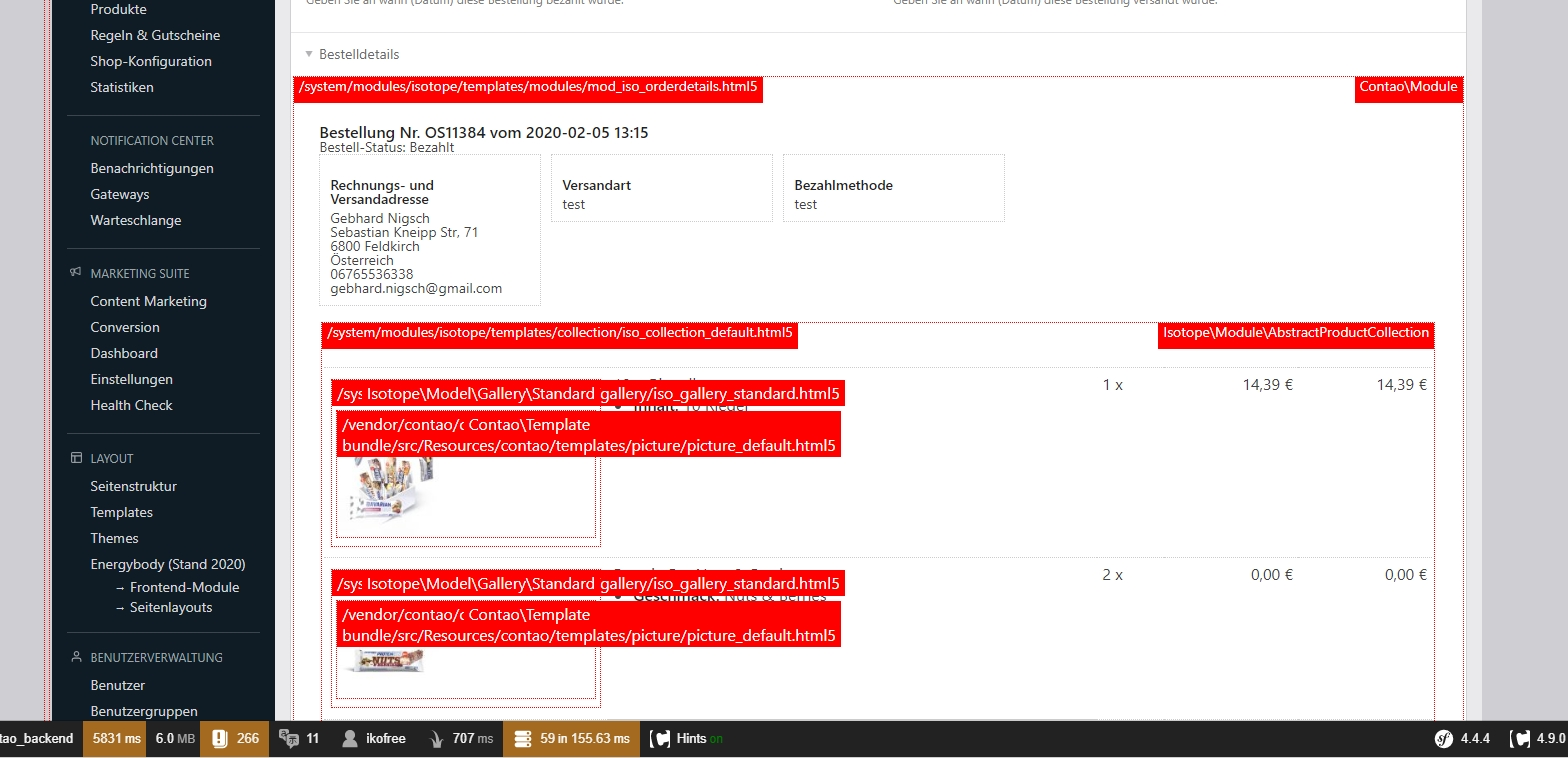
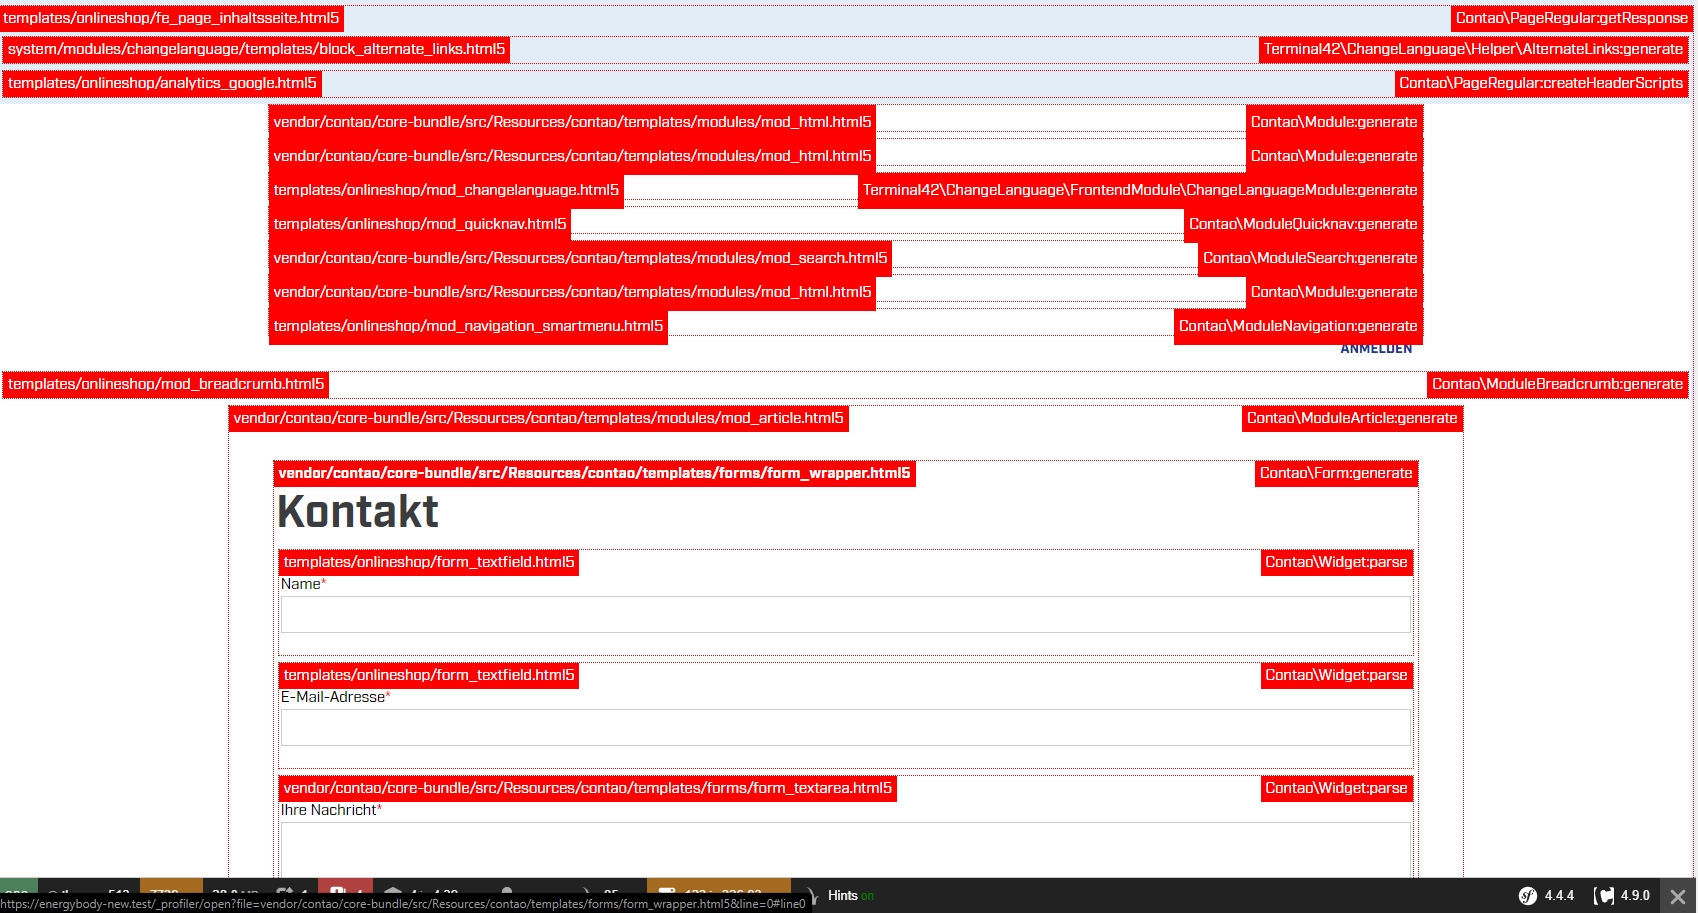
added link formatter

diff --git a/src/Resources/public/css/templatehint.css b/src/Resources/public/css/templatehint.css
@@ -17,6 +17,10 @@
     min-height: 22px;
 }
 
+a.templatehintlinks {
+    color: white;
+}
+
 .templatehint-template {
     left: 0px;
 }

diff --git a/src/EventListener/TemplatehintListener.php b/src/EventListener/TemplatehintListener.php
@@ -4,7 +4,9 @@ namespace Gebi84\TemplatehintBundle\EventListener;
 
 use Contao\Controller;
 use Contao\CoreBundle\ServiceAnnotation\Hook;
+use Contao\Widget;
 use Gebi84\TemplatehintBundle\Helper\Templatehint;
+use Symfony\Component\HttpKernel\Debug\FileLinkFormatter;
 use Terminal42\ServiceAnnotationBundle\ServiceAnnotationInterface;
 
 class TemplatehintListener implements ServiceAnnotationInterface
@@ -14,9 +16,17 @@ class TemplatehintListener implements ServiceAnnotationInterface
      */
     private $templatehint;
 
-    public function __construct(Templatehint $templatehint)
-    {
+    /**
+     * @var FileLinkFormatter
+     */
+    private $fileLinkFormatter;
+
+    public function __construct(
+        Templatehint $templatehint,
+        FileLinkFormatter $fileLinkFormatter
+    ) {
         $this->templatehint = $templatehint;
+        $this->fileLinkFormatter = $fileLinkFormatter;
     }
 
     /**
@@ -41,16 +51,25 @@ class TemplatehintListener implements ServiceAnnotationInterface
      */
     public function parseFrontendTemplateHint(string $buffer, string $template): string
     {
-        return $this->parseTempateHint($buffer, $template);
+        return $this->parseTemplateHint($buffer, $template);
     }
 
-    protected function parseTempateHint($buffer, $template): string
+    protected function parseTemplateHint($buffer, $template): string
     {
         if ($this->templatehint->isTemplateHintEnabled()) {
             $return = '';
             $return .= '<div class="templatehint-container">';
-            $return .= '<div class="templatehint-div templatehint-template templatehint-hover">' . $this->getTemplate($template) . '</div>';
-            $return .= '<div class="templatehint-div templatehint-class templatehint-hover">' . $this->getCalledClass() . '</div>';
+            $templatePath = $this->getTemplate($template);
+            $templateLink = $templatePath;
+            $return .= '<div class="templatehint-div templatehint-template templatehint-hover"><a class="templatehintlinks" href="' . $this->fileLinkFormatter->format($templateLink, 0) . '">' . $templatePath . '</a></div>';
+
+            $calledFile = null;
+            $calledClass = null;
+            $calledFunction = null;
+            $calledLine = null;
+            [$calledFile, $calledClass, $calledFunction, $calledLine] = $this->getCalledClass();
+
+            $return .= '<div class="templatehint-div templatehint-class templatehint-hover"><a class="templatehintlinks" href="' . $this->fileLinkFormatter->format($calledFile, $calledLine) . '">' . $calledClass . ':' . $calledFunction . '</a></div>';
             $return .= $buffer;
             $return .= '</div>';
 
@@ -71,15 +90,7 @@ class TemplatehintListener implements ServiceAnnotationInterface
             $templateString = $loader->getCacheKey($template);
         }
 
-        $templateString = str_replace(TL_ROOT, '', Controller::getTemplate($template));
-
-        if (strstr($templateString, '/system/modules/core/') !== false) {
-            $icon = '<i class="fa fa-file-image-o"></i>';
-        } else {
-            $icon = '<i class="fa fa-cog"></i>';
-        }
-
-        return $icon . ' ' . $templateString;
+        return str_replace(TL_ROOT . '/', '', Controller::getTemplate($template));
     }
 
     protected function isTwigTemplate(): bool
@@ -97,19 +108,35 @@ class TemplatehintListener implements ServiceAnnotationInterface
         return $isTwig;
     }
 
-    protected function getCalledClass(): string
+    protected function getCalledClass(): array
     {
         $backtrace = debug_backtrace();
         if (!$this->isTwigTemplate()) {
+            $found = [];
+
             foreach ($backtrace as $v) {
-                if ($v['class'] != get_class($this) && $v['class'] != 'Contao\FrontendTemplate') {
-                    return $v['class'];
+                if ($v['class'] === get_class($this) || $v['class'] === 'Contao\FrontendTemplate') {
+                    continue;
                 }
+
+                /* also check parent function */
+                if (!empty($found) && $found[2] !== $v['function']) {
+                    break;
+                }
+
+                $found = [
+                    $v['file'],
+                    $v['class'],
+                    $v['function'],
+                    $v['line']
+                ];
             }
+
+            return $found;
         } else {
             foreach ($backtrace as $v) {
                 $class = get_class($v['object']);
-                if (substr($class, 0, 4) != 'Twig' && $v['class'] != get_class($this)) {
+                if (substr($class, 0, 4) !== 'Twig' && $v['class'] !== get_class($this)) {
                     return $class;
                 }
             }
@@ -121,6 +148,14 @@ class TemplatehintListener implements ServiceAnnotationInterface
      */
     public function parseBackendTemplateHint(string $buffer, string $template): string
     {
-        return $this->parseTempateHint($buffer, $template);
+        return $this->parseTemplateHint($buffer, $template);
+    }
+
+    /**
+     * @Hook("parseWidget")
+     */
+    public function parseWidghetHint(string $buffer, Widget $widget)
+    {
+        return $this->parseTemplateHint($buffer, $widget->template);
     }
 }
